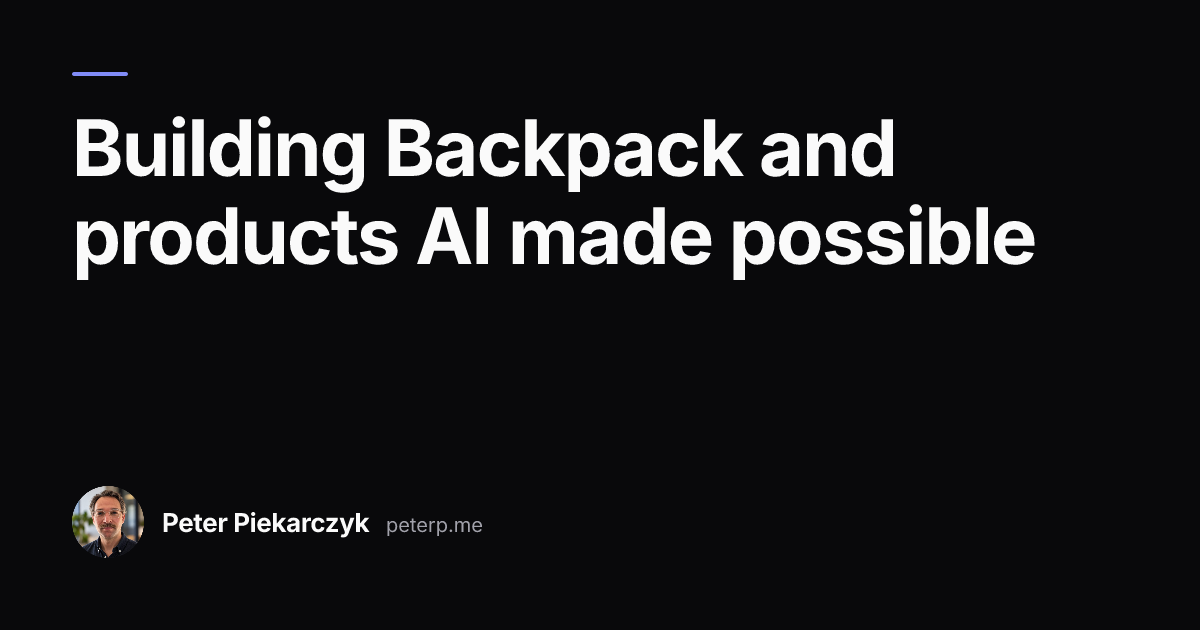
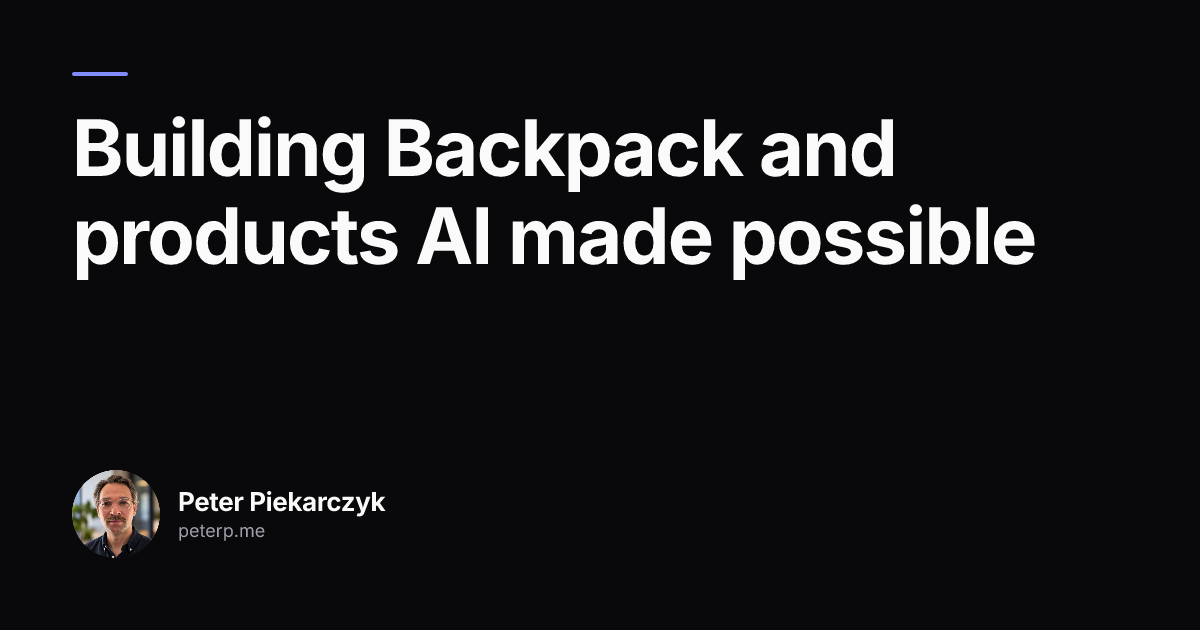
Stack the site name under the author on OG cards
Make the avatar 88px and center it with the two-line byline, still inside the 72px padding.

Changed region(s): [[0.0617, 0.7238, 0.4008, 0.8746]]

diff --git a/src/og/generate-og-images.js b/src/og/generate-og-images.js
@@ -8,7 +8,7 @@ const HEIGHT = 630
 const PADDING = 72
 const INNER_W = WIDTH - PADDING * 2
 const INNER_H = HEIGHT - PADDING * 2
-const AVATAR = 72
+const AVATAR = 88
 const AUTHOR = "Peter Piekarczyk"
 const SITE = "peterp.me"
 const TAGLINE = "Building Backpack and products AI made possible"
@@ -278,8 +278,10 @@ function OgCard({ title, date, avatar }) {
           {
             style: {
               display: "flex",
-              alignItems: "baseline",
+              flexDirection: "column",
+              justifyContent: "center",
               marginLeft: 18,
+              height: AVATAR,
             },
           },
           element(
@@ -290,6 +292,7 @@ function OgCard({ title, date, avatar }) {
                 fontWeight: 700,
                 color: "#fafafa",
                 letterSpacing: -0.4,
+                lineHeight: 1.1,
               },
             },
             AUTHOR
@@ -298,10 +301,11 @@ function OgCard({ title, date, avatar }) {
             "div",
             {
               style: {
-                fontSize: 20,
+                fontSize: 18,
                 fontWeight: 400,
                 color: "#a1a1aa",
-                marginLeft: 16,
+                marginTop: 4,
+                lineHeight: 1.1,
               },
             },
             SITE
